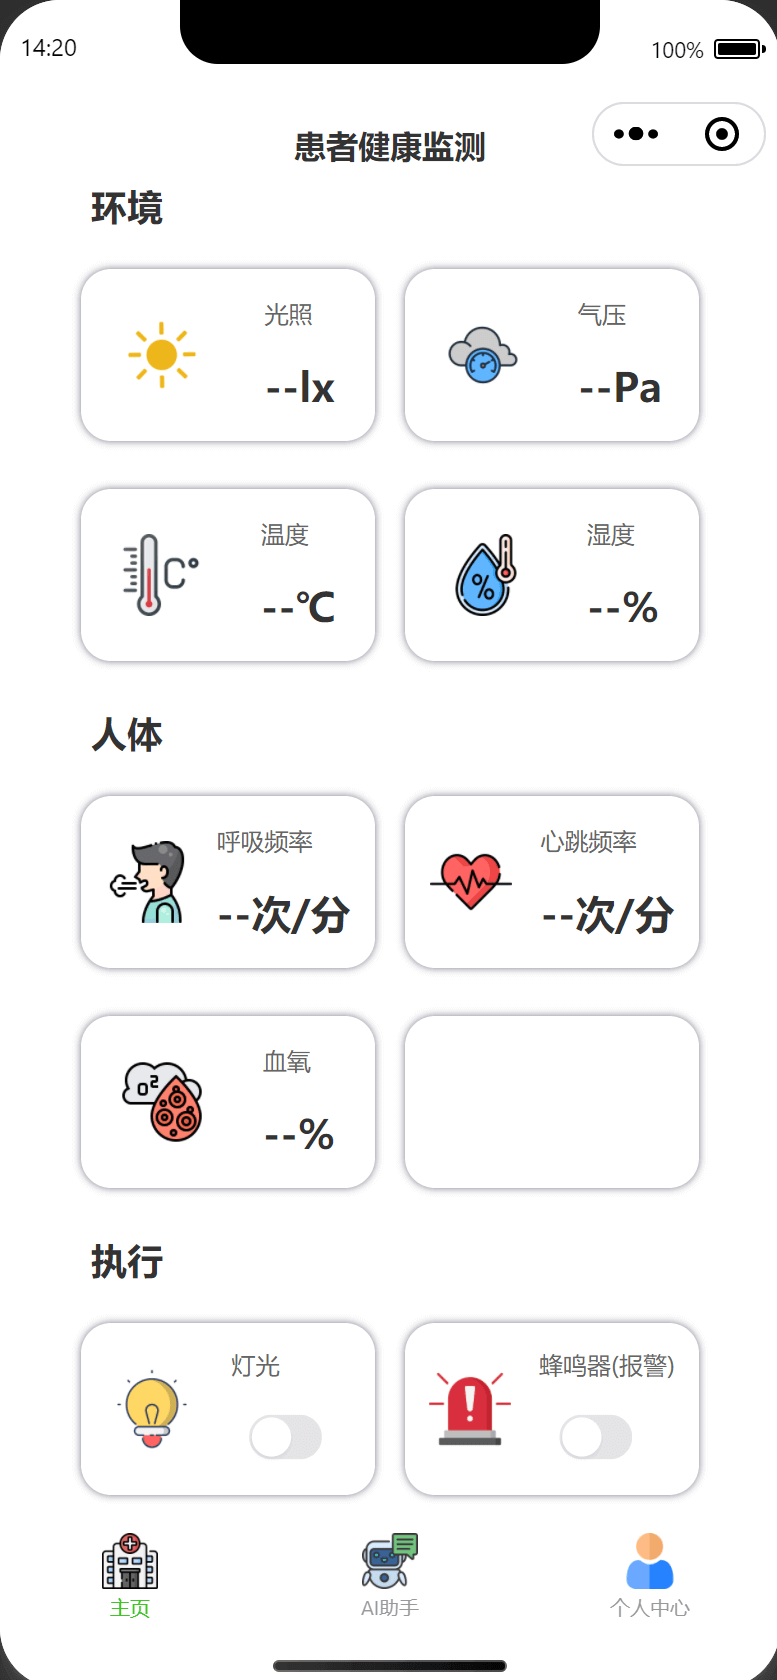
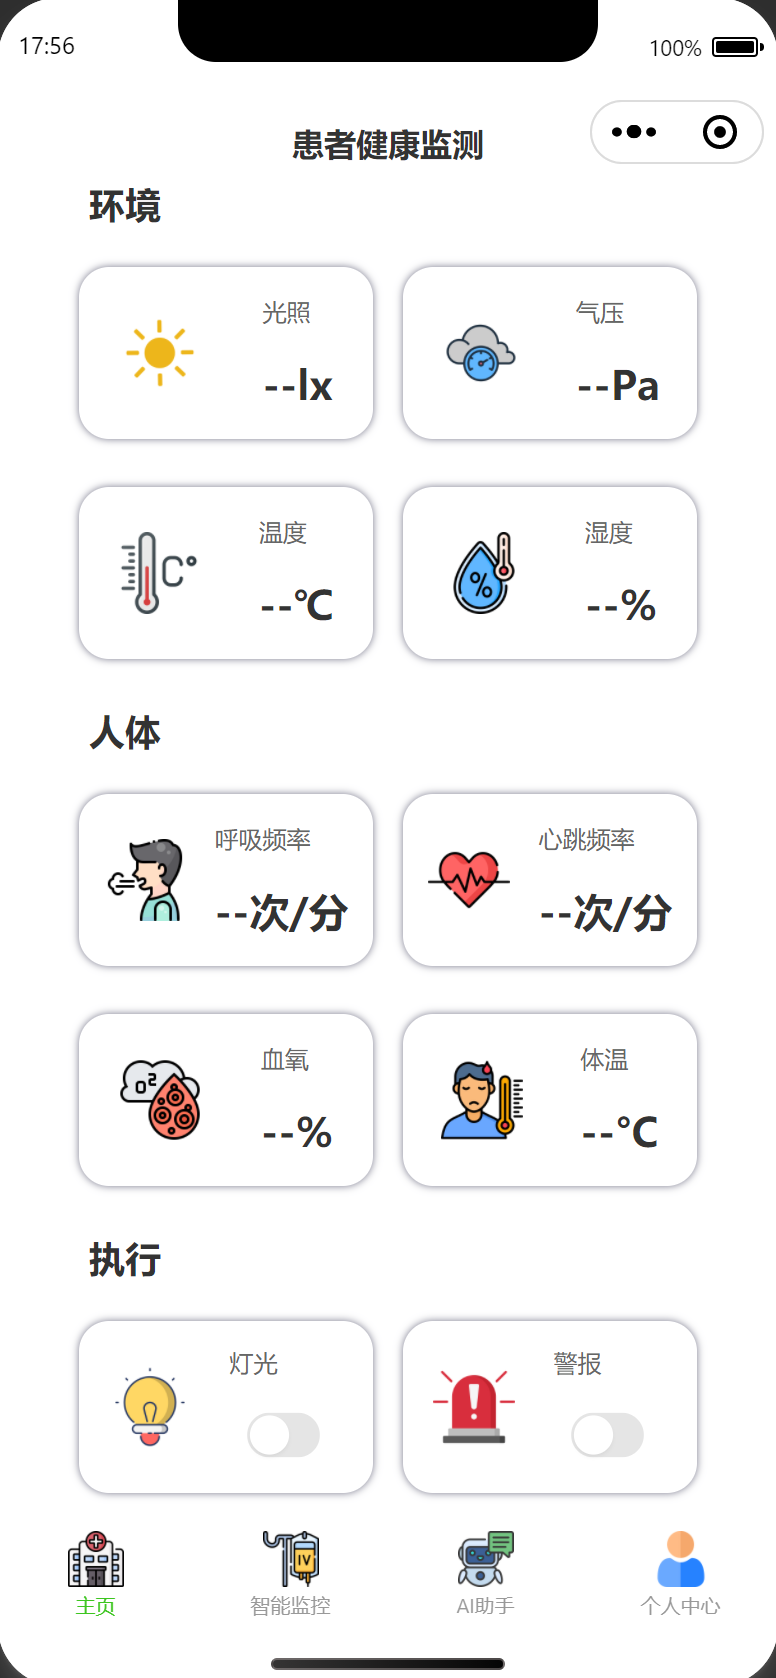
refactor: rebuild buzzer function
- 修改UI文字为警报
- 逻辑功能改为数据上报模式
- 开启发送true到patient/upload/data，关闭不发送
- 更换展示图片

diff --git a/pages/index/index.js b/pages/index/index.js
@@ -437,19 +437,26 @@ Page({
     }
   },
 
-  // 蜂鸣器控制
+  // 警报控制
   onBuzzerChange: function (event) {
     let sw = event.detail.value;
 
     // 先更新本地状态
     this.setData({ buzzer: sw });
 
-    // 发送控制命令
-    const success = this.sendDeviceControl("buzzer", sw);
-
-    if (success) {
+    // 只在开启时发送数据到 dataUpload 主题
+    if (sw) {
+      const success = mqttClient.publish(config.mqtt.topics.dataUpload, true);
+      if (success) {
+        wx.showToast({
+          title: "警报已开启",
+          icon: "success",
+        });
+      }
+    } else {
+      // 关闭时不发送任何数据，只显示提示
       wx.showToast({
-        title: sw ? "蜂鸣器已开启" : "蜂鸣器已关闭",
+        title: "警报已关闭",
         icon: "success",
       });
     }
